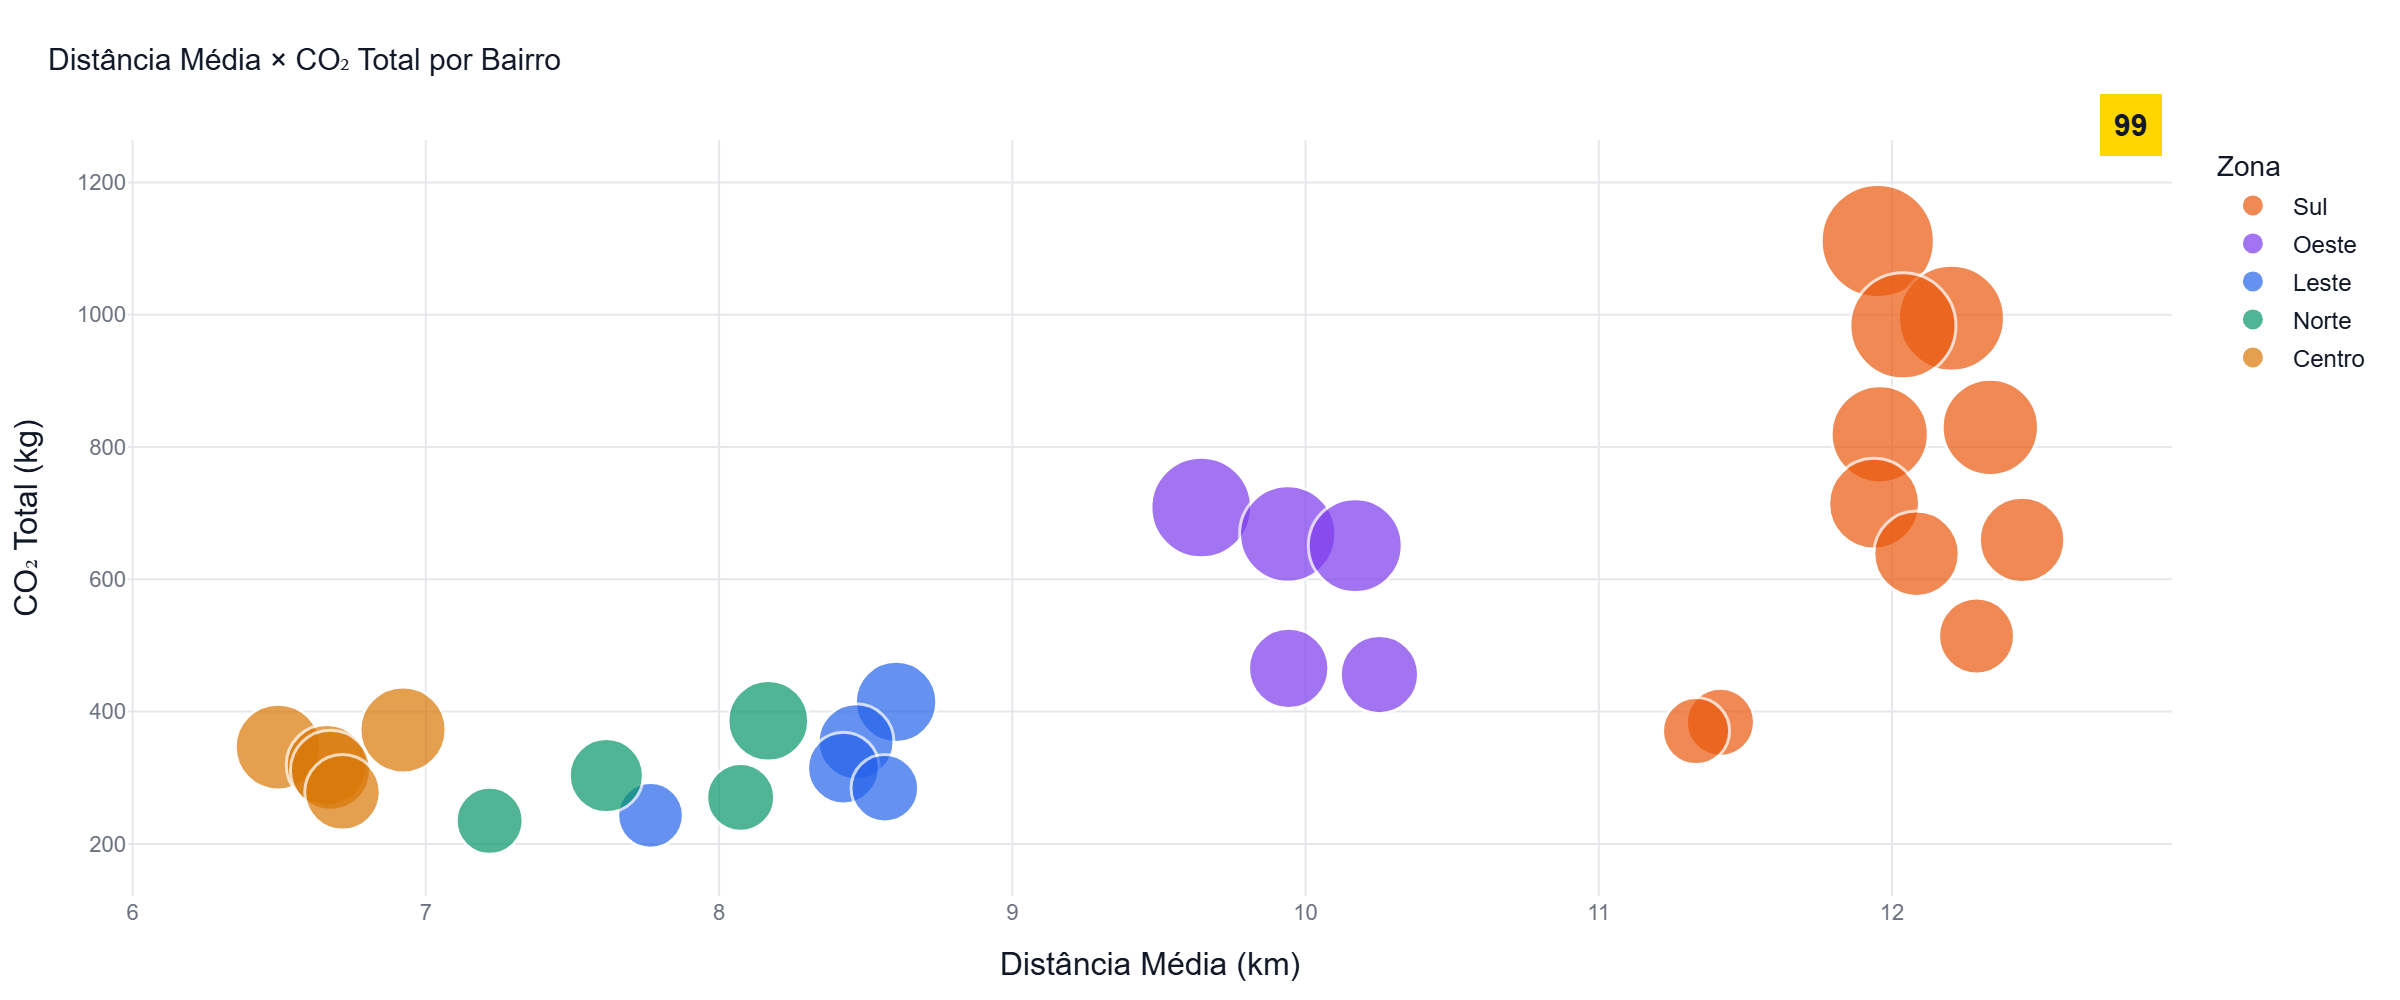
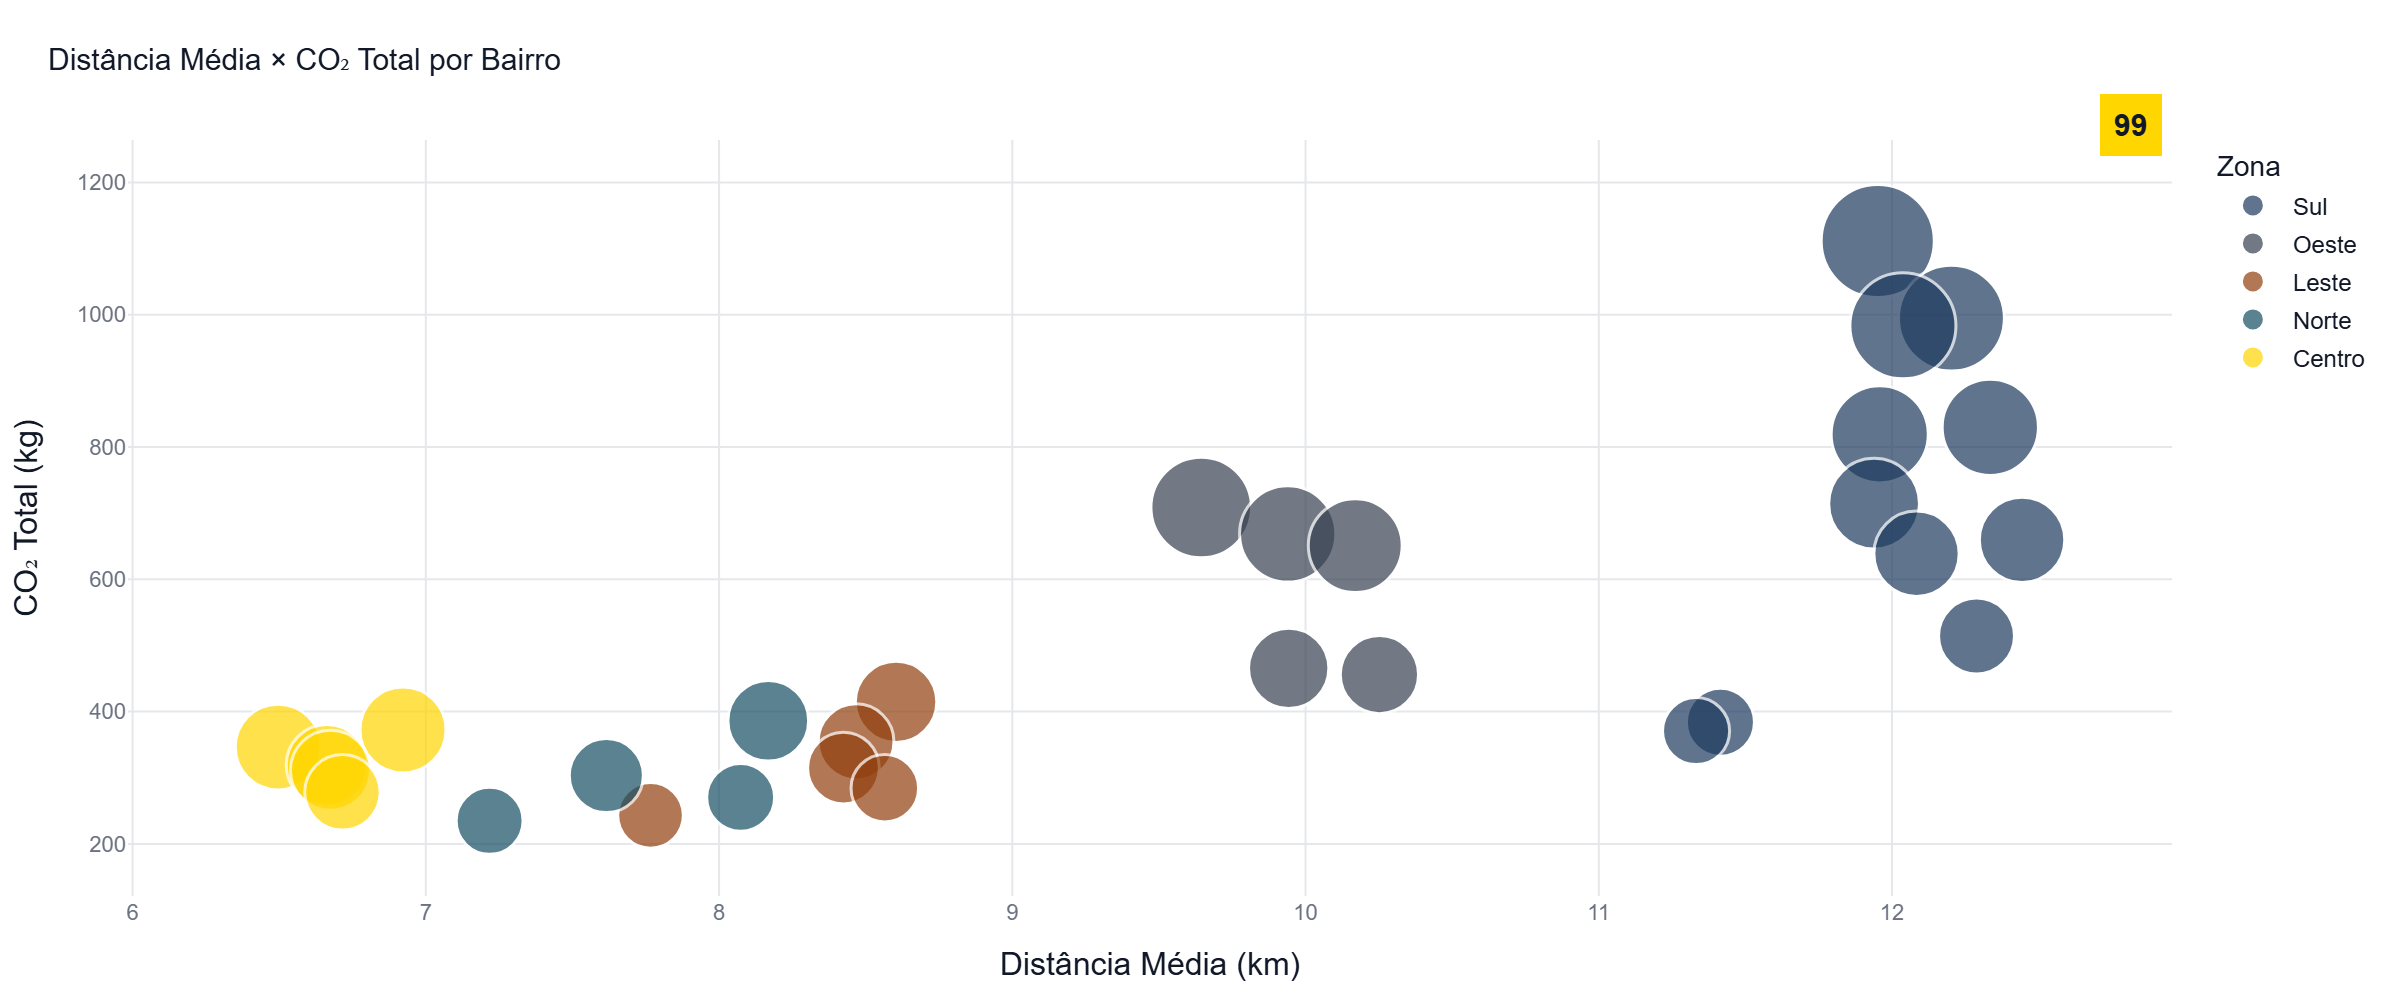
ajusta paleta para amarelo 99 + tons escuros sobre fundo branco
- amarelo #FFD600 como cor principal (picos, destaques, badge)
- tons escuros complementares: azul marinho, carvão, âmbar, teal
- gráfico 08 redução: preto (atual) x amarelo (com EV)
- gráfico 09 prioridade: borda amarela nas barras de ação imediata
- linha de corte em amarelo no score de prioridade

diff --git a/gerar_graficos.py b/gerar_graficos.py
@@ -11,35 +11,33 @@ import plotly.express as px
 
 os.makedirs("graficos", exist_ok=True)
 
-# ── Paleta 99 — tema claro ─────────────────────────────────────────────────────
+# ── Paleta 99 — amarelo + tons escuros sobre fundo branco ─────────────────────
 C = {
     "bg":    "#FFFFFF",
-    "y99":   "#FFD600",   # amarelo 99
+    "y99":   "#FFD600",   # amarelo 99 (primário)
     "blk":   "#111827",   # preto 99
-    "org":   "#EA580C",   # laranja
-    "grn":   "#059669",   # verde
-    "blu":   "#2563EB",   # azul
-    "prp":   "#7C3AED",   # roxo
-    "amb":   "#D97706",   # âmbar (Centro)
-    "red":   "#DC2626",   # vermelho urgência
+    "navy":  "#1E3A5F",   # azul marinho escuro
+    "char":  "#374151",   # carvão
+    "amb":   "#92400E",   # âmbar escuro (quente)
+    "teal":  "#164E63",   # azul-verde escuro
     "txt":   "#111827",
     "muted": "#6B7280",
     "brd":   "#E5E7EB",
 }
 
 ZONA_COR = {
-    "Sul":    C["org"],
-    "Oeste":  C["prp"],
-    "Leste":  C["blu"],
-    "Norte":  C["grn"],
-    "Centro": C["amb"],
+    "Sul":    C["navy"],
+    "Oeste":  C["char"],
+    "Leste":  C["amb"],
+    "Norte":  C["teal"],
+    "Centro": C["y99"],
 }
 
 VEI_COR = {
     "Pop":       C["y99"],
-    "Econômico": C["org"],
-    "Comfort":   C["prp"],
-    "Black":     C["blk"],
+    "Econômico": C["blk"],
+    "Comfort":   C["navy"],
+    "Black":     C["char"],
 }
 
 BASE = dict(
@@ -53,7 +51,7 @@ W, H = 1200, 500
 
 
 def add_logo(fig, x=0.995, y=1.06):
-    """Adiciona badge 99 no canto superior direito."""
+    """Badge amarelo 99 no canto superior direito."""
     fig.add_annotation(
         text="<b>99</b>",
         xref="paper", yref="paper",
@@ -113,7 +111,7 @@ tempo_agg = (
     corridas.groupby("semana", as_index=False)
     .agg(co2_total_kg=("co2_emitido_kg", "sum"))
     .sort_values("semana")
-    .iloc[:-1]  # remove última semana incompleta
+    .iloc[:-1]
 )
 
 hora_agg = (
@@ -130,10 +128,10 @@ fig = px.scatter_map(
     lat="lat_origem", lon="lon_origem",
     size="co2_total_kg", color="co2_total_kg",
     color_continuous_scale=[
-        [0,   "#F3F4F6"],
-        [0.3, C["grn"]],
-        [0.65,C["org"]],
-        [1,   C["red"]],
+        [0,    "#F3F4F6"],
+        [0.4,  C["y99"]],
+        [0.75, C["navy"]],
+        [1,    C["blk"]],
     ],
     hover_name="bairro_origem",
     size_max=48,
@@ -159,7 +157,7 @@ fig = go.Figure(go.Bar(
     y=top10["bairro_origem"],
     x=top10["co2_total_kg"],
     orientation="h",
-    marker_color=[ZONA_COR.get(z, C["muted"]) for z in top10["zona_origem"]],
+    marker_color=[ZONA_COR.get(z, C["char"]) for z in top10["zona_origem"]],
     marker_line_width=0,
     text=top10["co2_total_kg"].apply(lambda v: f"{v:,.0f} kg"),
     textposition="outside",
@@ -213,7 +211,7 @@ salvar(fig, "03_co2_por_veiculo", w=700, h=480)
 fig = go.Figure(go.Bar(
     x=zona_agg["zona_origem"],
     y=zona_agg["co2_total_kg"],
-    marker_color=[ZONA_COR.get(z, C["muted"]) for z in zona_agg["zona_origem"]],
+    marker_color=[ZONA_COR.get(z, C["char"]) for z in zona_agg["zona_origem"]],
     marker_line_width=0,
     text=zona_agg["co2_total_kg"].apply(lambda v: f"{v/1000:.1f} t"),
     textposition="outside",
@@ -262,8 +260,8 @@ salvar(fig, "05_evolucao_semanal")
 
 
 # ── 06 · CO₂ por hora do dia ──────────────────────────────────────────────────
-pico  = {7, 8, 9, 17, 18, 19, 20}
-cores = [C["y99"] if h in pico else C["brd"] for h in hora_agg["hora"]]
+pico   = {7, 8, 9, 17, 18, 19, 20}
+cores  = [C["y99"] if h in pico else C["brd"] for h in hora_agg["hora"]]
 bordas = [C["blk"] if h in pico else C["muted"] for h in hora_agg["hora"]]
 
 fig = go.Figure(go.Bar(
@@ -276,7 +274,7 @@ fig = go.Figure(go.Bar(
     hovertemplate="<b>%{x}h</b><br>CO₂: %{y:,.0f} kg<br>Corridas: %{customdata:,}<extra></extra>",
 ))
 fig.add_annotation(
-    text="🟡 amarelo = horário de pico (7–9h e 17–20h)",
+    text="amarelo = horário de pico (7–9h e 17–20h)",
     xref="paper", yref="paper",
     x=0.02, y=0.97, showarrow=False,
     font=dict(size=11, color=C["muted"]), align="left",
@@ -335,9 +333,9 @@ fig.add_trace(go.Bar(
     y=top10["bairro_origem"],
     x=top10["co2_total_kg"],
     orientation="h",
-    marker_color=C["org"],
+    marker_color=C["blk"],
     marker_line_width=0,
-    opacity=0.9,
+    opacity=0.85,
     hovertemplate="<b>%{y}</b><br>Atual: %{x:,.0f} kg<extra></extra>",
 ))
 fig.add_trace(go.Bar(
@@ -345,9 +343,9 @@ fig.add_trace(go.Bar(
     y=top10["bairro_origem"],
     x=top10["co2_proj_kg"],
     orientation="h",
-    marker_color=C["grn"],
+    marker_color=C["y99"],
     marker_line_width=0,
-    opacity=0.9,
+    opacity=0.95,
     hovertemplate="<b>%{y}</b><br>Projetado: %{x:,.0f} kg<extra></extra>",
 ))
 fig.update_layout(
@@ -373,17 +371,18 @@ prior["score"] = ((raw - raw.min()) / (raw.max() - raw.min()) * 100).round(1)
 prior = prior.nlargest(10, "score").sort_values("score")
 
 def cor_score(s):
-    if s >= 80: return C["red"]
-    if s >= 60: return C["org"]
-    if s >= 40: return C["y99"]
-    return C["blu"]
+    if s >= 80: return C["blk"]
+    if s >= 60: return C["navy"]
+    if s >= 40: return C["char"]
+    return C["muted"]
 
 fig = go.Figure(go.Bar(
     y=prior["bairro_origem"],
     x=prior["score"],
     orientation="h",
     marker_color=[cor_score(s) for s in prior["score"]],
-    marker_line_width=0,
+    marker_line_color=[C["y99"] if s >= 80 else "rgba(0,0,0,0)" for s in prior["score"]],
+    marker_line_width=2,
     text=[f"{s:.0f}" for s in prior["score"]],
     textposition="outside",
     textfont=dict(color=C["txt"], size=12),
@@ -393,10 +392,11 @@ fig = go.Figure(go.Bar(
 top3_score = prior["score"].nlargest(3).min()
 fig.add_vline(
     x=top3_score - 0.5,
-    line_dash="dash", line_color=C["red"], line_width=1.5,
+    line_dash="dash", line_color=C["y99"], line_width=2,
     annotation_text="ação imediata",
     annotation_position="top right",
-    annotation_font=dict(color=C["red"], size=11),
+    annotation_font=dict(color=C["blk"], size=11,
+                         family="Inter, Arial, sans-serif"),
 )
 
 fig.update_layout(
